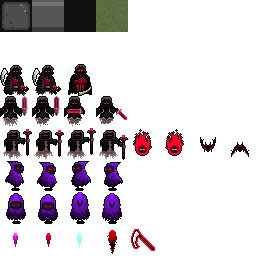
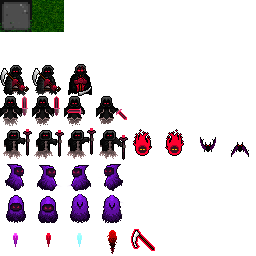
BLOCK

diff --git a/src/renderer/r_map.c b/src/renderer/r_map.c
@@ -10,15 +10,16 @@
 struct {
   mesh_t mesh;
   shader_t shader;
-  texture_t sheet;
 } r_map;
 
-static void map_load(meshdata_t md);
+static void add_tile(meshdata_t md, int x, int y);
+static void add_block(meshdata_t md, int x, int y);
+static void r_map_load(meshdata_t md);
 
 void r_map_init()
 {
   meshdata_t md = meshdata_create();
-    meshdata_add_quad(md, fscale(100.0), fscale(100.0));
+    r_map_load(md);
     r_map.mesh = vbuffer_add(md);
   meshdata_destroy(md);
   
@@ -29,34 +30,62 @@ void r_map_init()
     r_map.shader = shader_load(sd);
     camera_shader_attach(r_map.shader);
   shaderdata_destroy(sd);
-  
-  r_map.sheet = texture_load_image("assets/sheet/grid.png");
-}
-
-void map_load(meshdata_t md)
-{
-  matrix T_uv = mdotm(translate(vec2(3.0, 7.0)), fscale(1.0 / 8.0));
-  
-  for (int i = 0; i < 32; i++) {
-    for (int j = 0; j < 32; j++) {
-      matrix T_p = mdotm(fscale(0.5), translate(vec2(i, j)));
-      meshdata_add_quad(md, T_p, T_uv);
-    }
-  }
-  
-  matrix T_p = mdotm(mdotm(rotate_x(M_PI / 2.0), fscale(0.5)), translate(vec2(-3, -3)));
-  meshdata_add_quad(md, T_p, T_uv);
 }
 
 void r_map_draw()
 {
   shader_bind(r_map.shader);
-  texture_bind(r_map.sheet, GL_TEXTURE_2D, 0);
   vbuffer_draw(r_map.mesh);
+}
+
+void r_map_load(meshdata_t md)
+{
+  for (int i = 0; i < 32; i++) {
+    for (int j = 0; j < 32; j++) {
+      add_tile(md, i, j);
+      
+      if (i % 8 == 0 && j % 8 == 0) {
+        add_block(md, i, j);
+      }
+    }
+  }
+}
+
+void add_tile(meshdata_t md, int x, int y)
+{
+  matrix T_p = mdotm(fscale(0.5), translate(vec2(x, y)));
+  matrix T_uv = mdotm(translate(vec2(1, 7)), fscale(1.0 / 8.0));
+  meshdata_add_quad(md, T_p, T_uv);
+}
+
+void add_block(meshdata_t md, int x, int y)
+{
+  vector N[] = {
+    vec3(+1,  0,  0),
+    vec3(-1,  0,  0),
+    vec3( 0, +1,  0),
+    vec3( 0, -1,  0)
+  };
+  
+  for (int i = 0; i < 4; i++) {
+    vector T = vec3(0, 0, -1);
+    vector B = cross(T, N[i]);
+    
+    matrix T_p = mat3(T, B, N[i]);
+    T_p = mdotm(mdotm(rotate_z(-M_PI / 2.0), translate(vec3(0, 0, 1))), T_p);
+    T_p = mdotm(T_p, translate(vec3(0, 0,-1)));
+    T_p = mdotm(T_p, fscale(0.5));
+    T_p = mdotm(T_p, translate(vec2(x, y)));
+    matrix T_uv = mdotm(translate(vec2(0, 7)), fscale(1.0 / 8.0));
+    meshdata_add_quad(md, T_p, T_uv);
+  }
+  
+  matrix T_p = mdotm(fscale(0.5), translate(vec3(x, y, -1)));
+  matrix T_uv = mdotm(translate(vec2(0, 7)), fscale(1.0 / 8.0));
+  meshdata_add_quad(md, T_p, T_uv);
 }
 
 void r_map_deinit()
 {
   shader_destroy(r_map.shader);
-  texture_destroy(r_map.sheet);
 }

diff --git a/src/game/game.c b/src/game/game.c
@@ -5,14 +5,32 @@ void game_init(game_t *gs)
   *gs = (game_t) {0};
   gs->time = 0.0;
   
+  sprite_t *s;
+  transform_t *t;
+  
   gs->player = edict_add(&gs->edict);
   ENTITY_ADD_COMPONENT(gs->edict, gs->player, transform);
   ENTITY_ADD_COMPONENT(gs->edict, gs->player, sprite);
+  t = ENTITY_GET_COMPONENT(gs->edict, gs->player, transform);
+  s = ENTITY_GET_COMPONENT(gs->edict, gs->player, sprite);
+  s->tx = 0;
+  s->ty = 1;
+  
+  entity_t e;
+  
+  e = edict_add(&gs->edict);
+  ENTITY_ADD_COMPONENT(gs->edict, e, transform);
+  ENTITY_ADD_COMPONENT(gs->edict, e, sprite);
+  t = ENTITY_GET_COMPONENT(gs->edict, e, transform);
+  s = ENTITY_GET_COMPONENT(gs->edict, e, sprite);
+  s->tx = 4;
+  s->ty = 3;
 }
 
 void game_update(game_t *gs, int key[], float mx, float my)
 {
   transform_t *pt = ENTITY_GET_COMPONENT(gs->edict, gs->player, transform);
+  sprite_t *ps = ENTITY_GET_COMPONENT(gs->edict, gs->player, sprite);
   
   float speed = 0.1;
   float rot_speed = 0.05;
@@ -20,6 +38,11 @@ void game_update(game_t *gs, int key[], float mx, float my)
   
   pt->rotation.z += key['q'] * rot_speed;
   pt->rotation.z -= key['e'] * rot_speed;
+  
+  if (key['w']) { ps->tx = 2; ps->ty = 1; }
+  if (key['s']) { ps->tx = 0; ps->ty = 1; }
+  if (key['a']) { ps->tx = 2; ps->ty = 2; }
+  if (key['d']) { ps->tx = 0; ps->ty = 2; }
   
   walk.y += key['w'];
   walk.y -= key['s'];
@@ -29,6 +52,7 @@ void game_update(game_t *gs, int key[], float mx, float my)
   if (dot(walk, walk) > 0.0) {
     walk = fdotv(speed, normalize(mdotv(rotate_xyz(pt->rotation), walk)));
     pt->position = vaddv(pt->position, walk);
+    ps->tx += (int) (gs->time * 7.0) % 2;
   }
   
   gs->time += 0.015;

diff --git a/src/renderer/r_sprite.c b/src/renderer/r_sprite.c
@@ -28,8 +28,16 @@ struct {
 
 void r_sprite_init()
 {
+  matrix T_p = mat3(
+    vec3( 1,  0,  0),
+    vec3( 0,  1, -1),
+    vec3( 0,  0,  1)
+  );
+  
+  T_p = mdotm(mdotm(translate(vec3(0, 0, -1)), fscale(0.5)), T_p);
+  
   meshdata_t md = meshdata_create();
-    meshdata_add_quad(md, mdotm(fscale(0.5), translate(vec3(0.0, 0.0, -0.001))), mdotm(translate(vec2(0.0, 1.0)), fscale(1.0 / 8.0)));
+    meshdata_add_quad(md, T_p, identity());
     r_sprite.mesh = vbuffer_add(md);
   meshdata_destroy(md);
   
@@ -60,10 +68,27 @@ void r_sprite_draw(const game_t *gs)
       continue;
     }
     
-    spritedata.sprite[spritedata.num_sprite++];
+    if (spritedata.num_sprite >= SPRITE_MAX) {
+      continue;
+    }
+    
+    const transform_t *t = ENTITY_GET_COMPONENT(gs->edict, e, transform);
+    const sprite_t *s = ENTITY_GET_COMPONENT(gs->edict, e, sprite);
+    
+    matrix T_p = identity();
+    T_p = mdotm(T_p, translate(vec2(0.0, 0.5)));
+    T_p = mdotm(T_p, inverse(mat3_from_mat4(camera_get_view())));
+    T_p = mdotm(T_p, translate(t->position));
+    
+    matrix T_uv = identity();
+    T_uv = mdotm(T_uv, translate(vec2(s->tx, s->ty)));
+    T_uv = mdotm(T_uv, fscale(1.0 / 8.0));
+    
+    spritedata.sprite[spritedata.num_sprite++] = (ub_sprite_t) {
+      .T_p = T_p,
+      .T_uv = T_uv
+    };
   }
-  
-  spritedata.sprite[0].T_p = mdotm(translate(vec2(0.0, 0.5)), inverse(mat3_from_mat4(camera_get_view())));
   
   glBindBuffer(GL_UNIFORM_BUFFER, r_sprite.ubo);
   glBufferSubData(GL_UNIFORM_BUFFER, 0, sizeof(spritedata), &spritedata);

diff --git a/src/renderer/renderer.c b/src/renderer/renderer.c
@@ -8,8 +8,12 @@
 #include <stdio.h>
 #include <GL/glew.h>
 
+#define FOV (1.0 / 6.0)
+
 #define SCR_WIDTH 800
 #define SCR_HEIGHT 600
+
+#define ASPECT_RATIO ((float) SCR_WIDTH / (float) SCR_HEIGHT)
 
 #define MAX_VERTICES 1024 * 1024
 
@@ -31,10 +35,6 @@ void renderer_init()
   glEnable(GL_DEPTH_TEST);
   glEnable(GL_CULL_FACE);
   glCullFace(GL_BACK);
-  
-  float fov = 1.0 / 6.0;
-  float aspect_ratio = (float) SCR_WIDTH / (float) SCR_HEIGHT;
-  camera_isometric(fov * 1.0, fov * aspect_ratio);
 }
 
 float t = 0.0;
@@ -47,8 +47,13 @@ void renderer_render(const game_t *gs)
   camera_move(pt->position, pt->rotation);
   
   glClear(GL_COLOR_BUFFER_BIT | GL_DEPTH_BUFFER_BIT);
+ 
+  camera_isometric(FOV * 1.0, FOV * ASPECT_RATIO);
   camera_update(identity());
   r_map_draw();
+  
+  camera_orthographic(FOV * 1.0, FOV * ASPECT_RATIO);
+  camera_update(identity());
   r_sprite_draw(gs);
 }
 

diff --git a/src/lib/math3d.c b/src/lib/math3d.c
@@ -10,9 +10,9 @@ void vector_print(const char *string, vector x)
 void matrix_print(const char *string, matrix A)
 {
   printf("%s: [\n", string);
-  printf("  <%.6f, %.6f, %.6f, %.6f>\n", A.m[0][0], A.m[1][0], A.m[2][0], A.m[3][0]); 
-  printf("  <%.6f, %.6f, %.6f, %.6f>\n", A.m[0][1], A.m[1][1], A.m[2][1], A.m[3][1]); 
-  printf("  <%.6f, %.6f, %.6f, %.6f>\n", A.m[0][2], A.m[1][2], A.m[2][2], A.m[3][2]); 
-  printf("  <%.6f, %.6f, %.6f, %.6f>\n", A.m[0][3], A.m[1][3], A.m[2][3], A.m[3][3]);
+  printf("  <%.6f, %.6f, %.6f, %.6f>\n", A.m[0][0], A.m[0][1], A.m[0][2], A.m[0][3]); 
+  printf("  <%.6f, %.6f, %.6f, %.6f>\n", A.m[1][0], A.m[1][1], A.m[1][2], A.m[1][3]); 
+  printf("  <%.6f, %.6f, %.6f, %.6f>\n", A.m[2][0], A.m[2][1], A.m[2][2], A.m[2][3]); 
+  printf("  <%.6f, %.6f, %.6f, %.6f>\n", A.m[3][0], A.m[3][1], A.m[3][2], A.m[3][3]);
   printf("]\n");
 }

diff --git a/src/include/game/edict.h b/src/include/game/edict.h
@@ -10,15 +10,15 @@
 typedef int entity_t;
 
 typedef enum {
-  C_transform       = 1 << 0,
-  C_sprite  = 1 << 1
+  C_transform = 1 << 0,
+  C_sprite    = 1 << 1
 } component_t;
 
 typedef struct {
-  transform_t       transform[MAX_ENTITIES];
-  sprite_t  sprite[MAX_ENTITIES];
-  component_t       field[MAX_ENTITIES];
-  int num_entities;
+  transform_t transform[MAX_ENTITIES];
+  sprite_t    sprite[MAX_ENTITIES];
+  component_t field[MAX_ENTITIES];
+  int         num_entities;
 } edict_t;
 
 void edict_init(edict_t *edict);

diff --git a/src/include/game/sprite.h b/src/include/game/sprite.h
@@ -3,12 +3,8 @@
 
 #include <math3d.h>
 
-typedef enum {
-  SPR_PLAYER
-} spritename_t;
-
 typedef struct {
-  spritename_t name;
+  int tx, ty, tw, th;
   int stand;
   int orient;
 } sprite_t;
@@ -16,7 +12,8 @@ typedef struct {
 inline static sprite_t create_sprite()
 {
   return (sprite_t) {
-    .name = SPR_PLAYER,
+    .tx = 0, .ty = 0,
+    .tw = 1, .th = 1,
     .stand = 1,
     .orient = 1
   };

diff --git a/src/include/math3d.h b/src/include/math3d.h
@@ -249,10 +249,10 @@ inline static matrix perspective(float w, float h, float n, float f)
 inline static matrix isometric(float w, float h)
 {
   return mat4(
-    vec4(w, 0,  0, 0),
-    vec4(0, h, -1, 0),
-    vec4(0, 0, +1, 0),
-    vec4(0, 0,  0, 1)
+    vec4(w, 0, 0, 0),
+    vec4(0, h,-w, 0),
+    vec4(0, 0, w, 0),
+    vec4(0, 0, 0, 1)
   );
 }
 

diff --git a/src/renderer/camera.c b/src/renderer/camera.c
@@ -42,7 +42,7 @@ void camera_shader_import(shaderdata_t sd)
 
 void camera_orthographic(float w, float h)
 {
-  camera.p = scale(vec3(w, h, 1.0));
+  camera.p = scale(vec3(w, h, w));
 }
 
 void camera_isometric(float w, float h)

diff --git a/src/main/main.c b/src/main/main.c
@@ -77,7 +77,7 @@ void sdl_init(int width, int height)
     sdl.key[i] = 0;
   }
   
-  SDL_SetRelativeMouseMode(1);
+  // SDL_SetRelativeMouseMode(1);
 }
 
 int sdl_poll()
